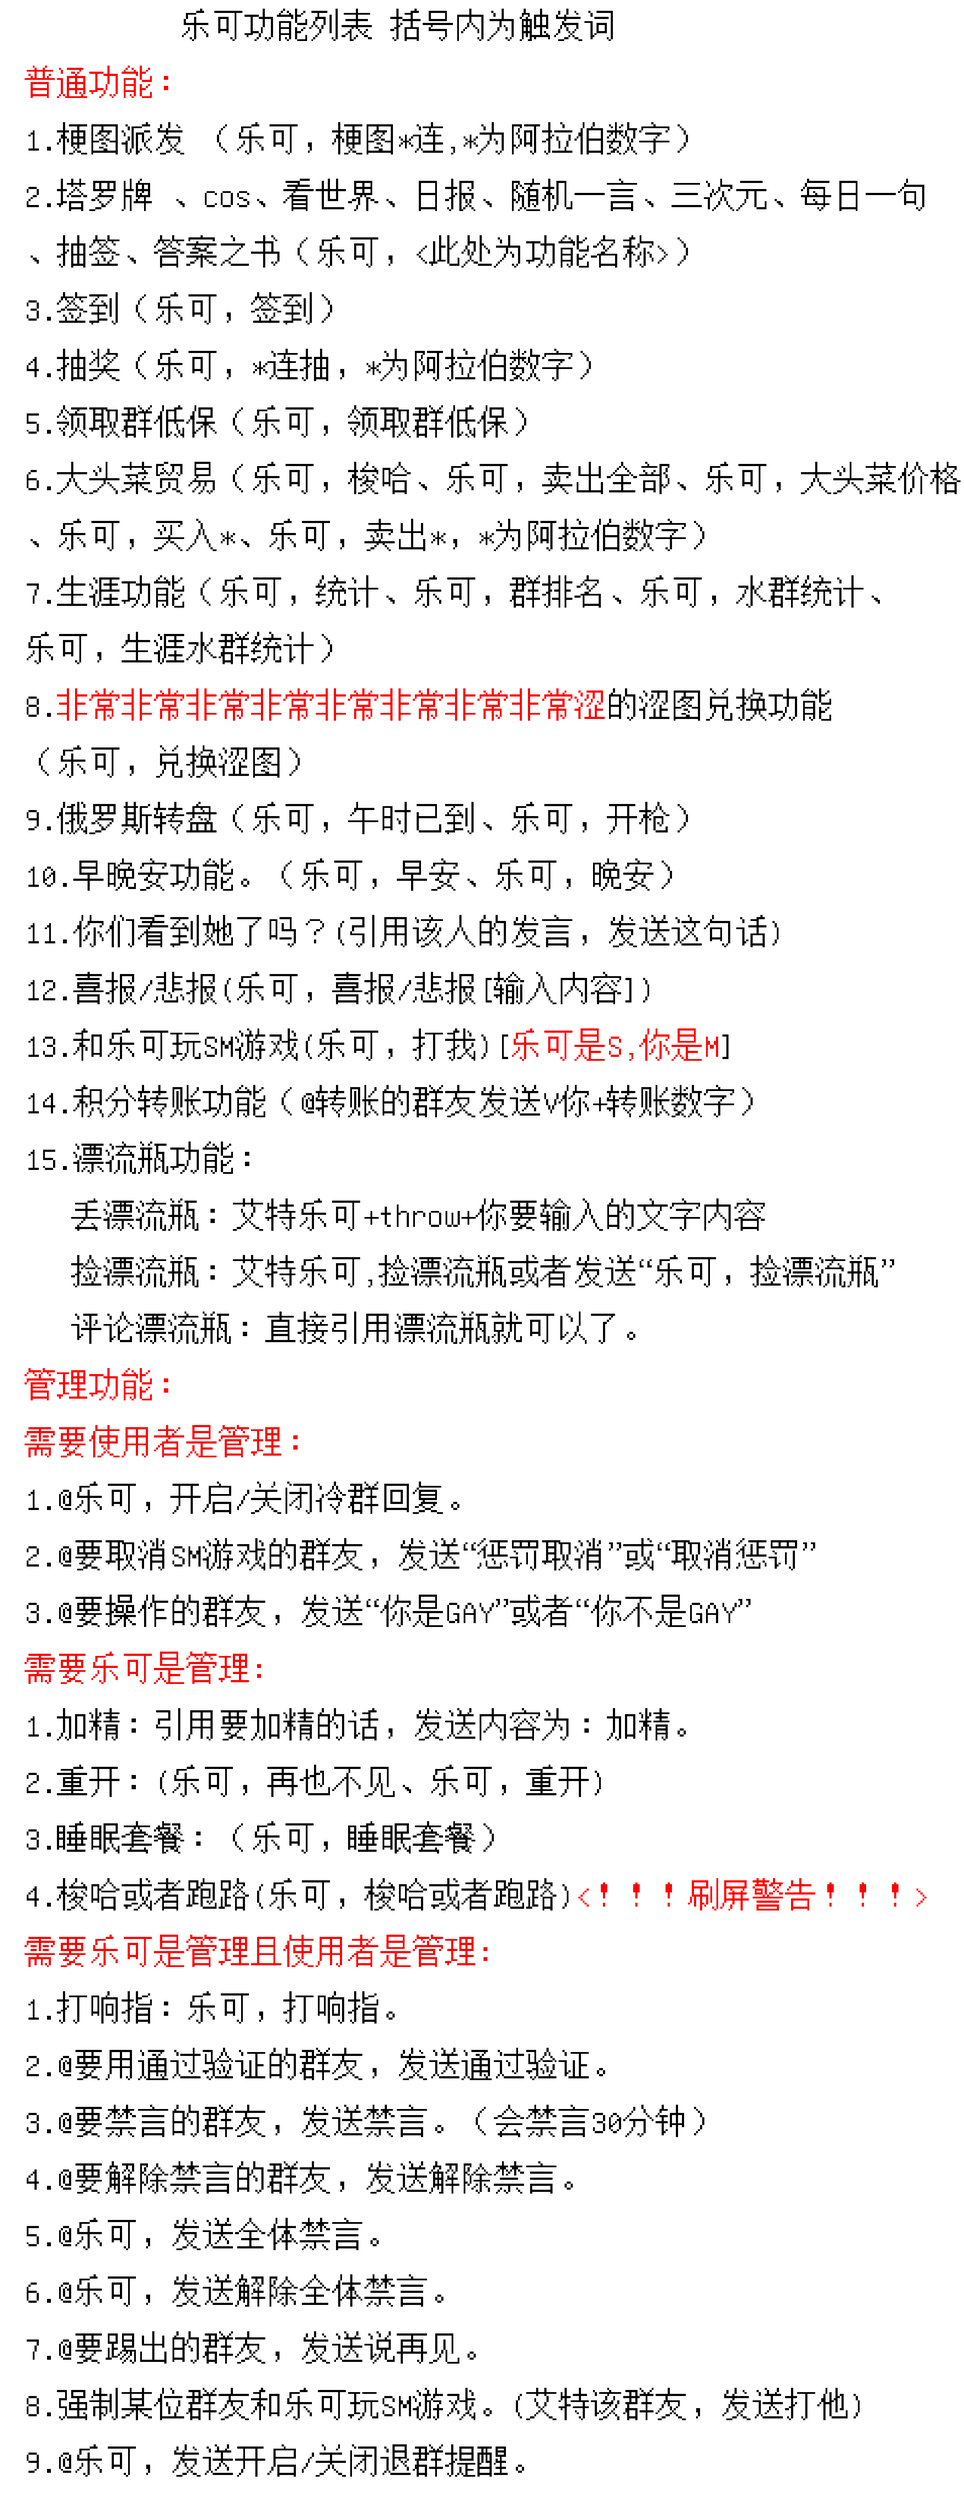
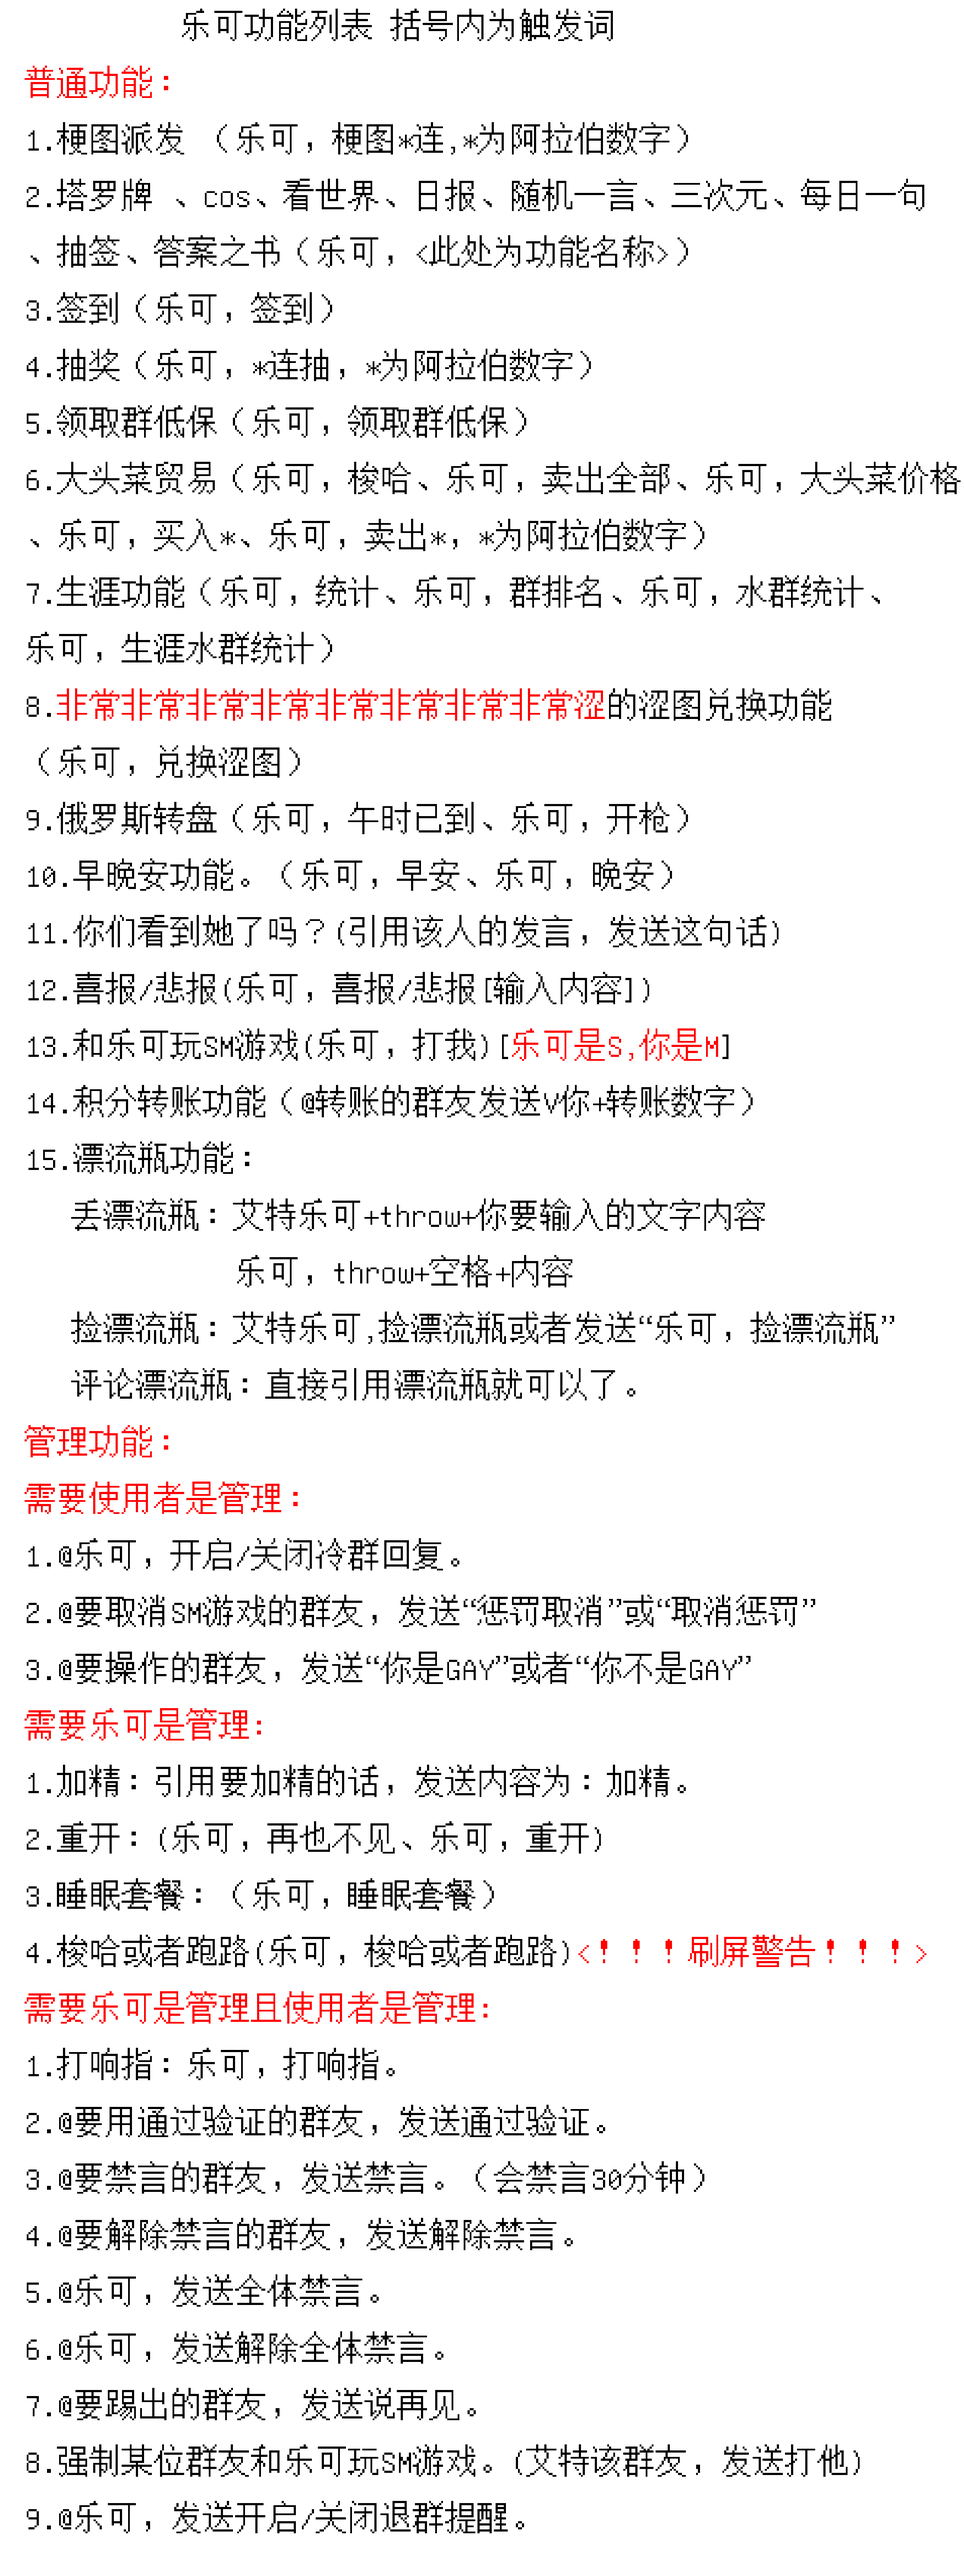
feat: 添加丢漂流瓶功能，支持文本消息处理并限制图片发送

diff --git a/main.py b/main.py
@@ -1608,6 +1608,30 @@ async def echo(websocket):
                                                 await AnswerBook(
                                                     websocket, user_id, group_id
                                                 )
+                                            elif HasKeyWords(
+                                                raw_message,
+                                                ["throw", "THROW", "丢漂流瓶"],
+                                            ):
+                                                if HasKeyWords(
+                                                    message["raw_message"],
+                                                    ["[CQ:image"],
+                                                ):
+                                                    await say(
+                                                        f"{get_user_name(user_id, group_id)},暂时不支持图片喵。"
+                                                    )
+                                                else:
+                                                    match = re.search(
+                                                        r"throw\s*([\s\S]*)$",
+                                                        message["raw_message"],
+                                                    )
+                                                    if match:
+                                                        print(match.group(1))
+                                                        await throw_drifting_bottles(
+                                                            websocket,
+                                                            user_id,
+                                                            group_id,
+                                                            match.group(1),
+                                                        )
                                             elif (
                                                 "status"
                                                 in message["message"][0]["data"]["text"]
